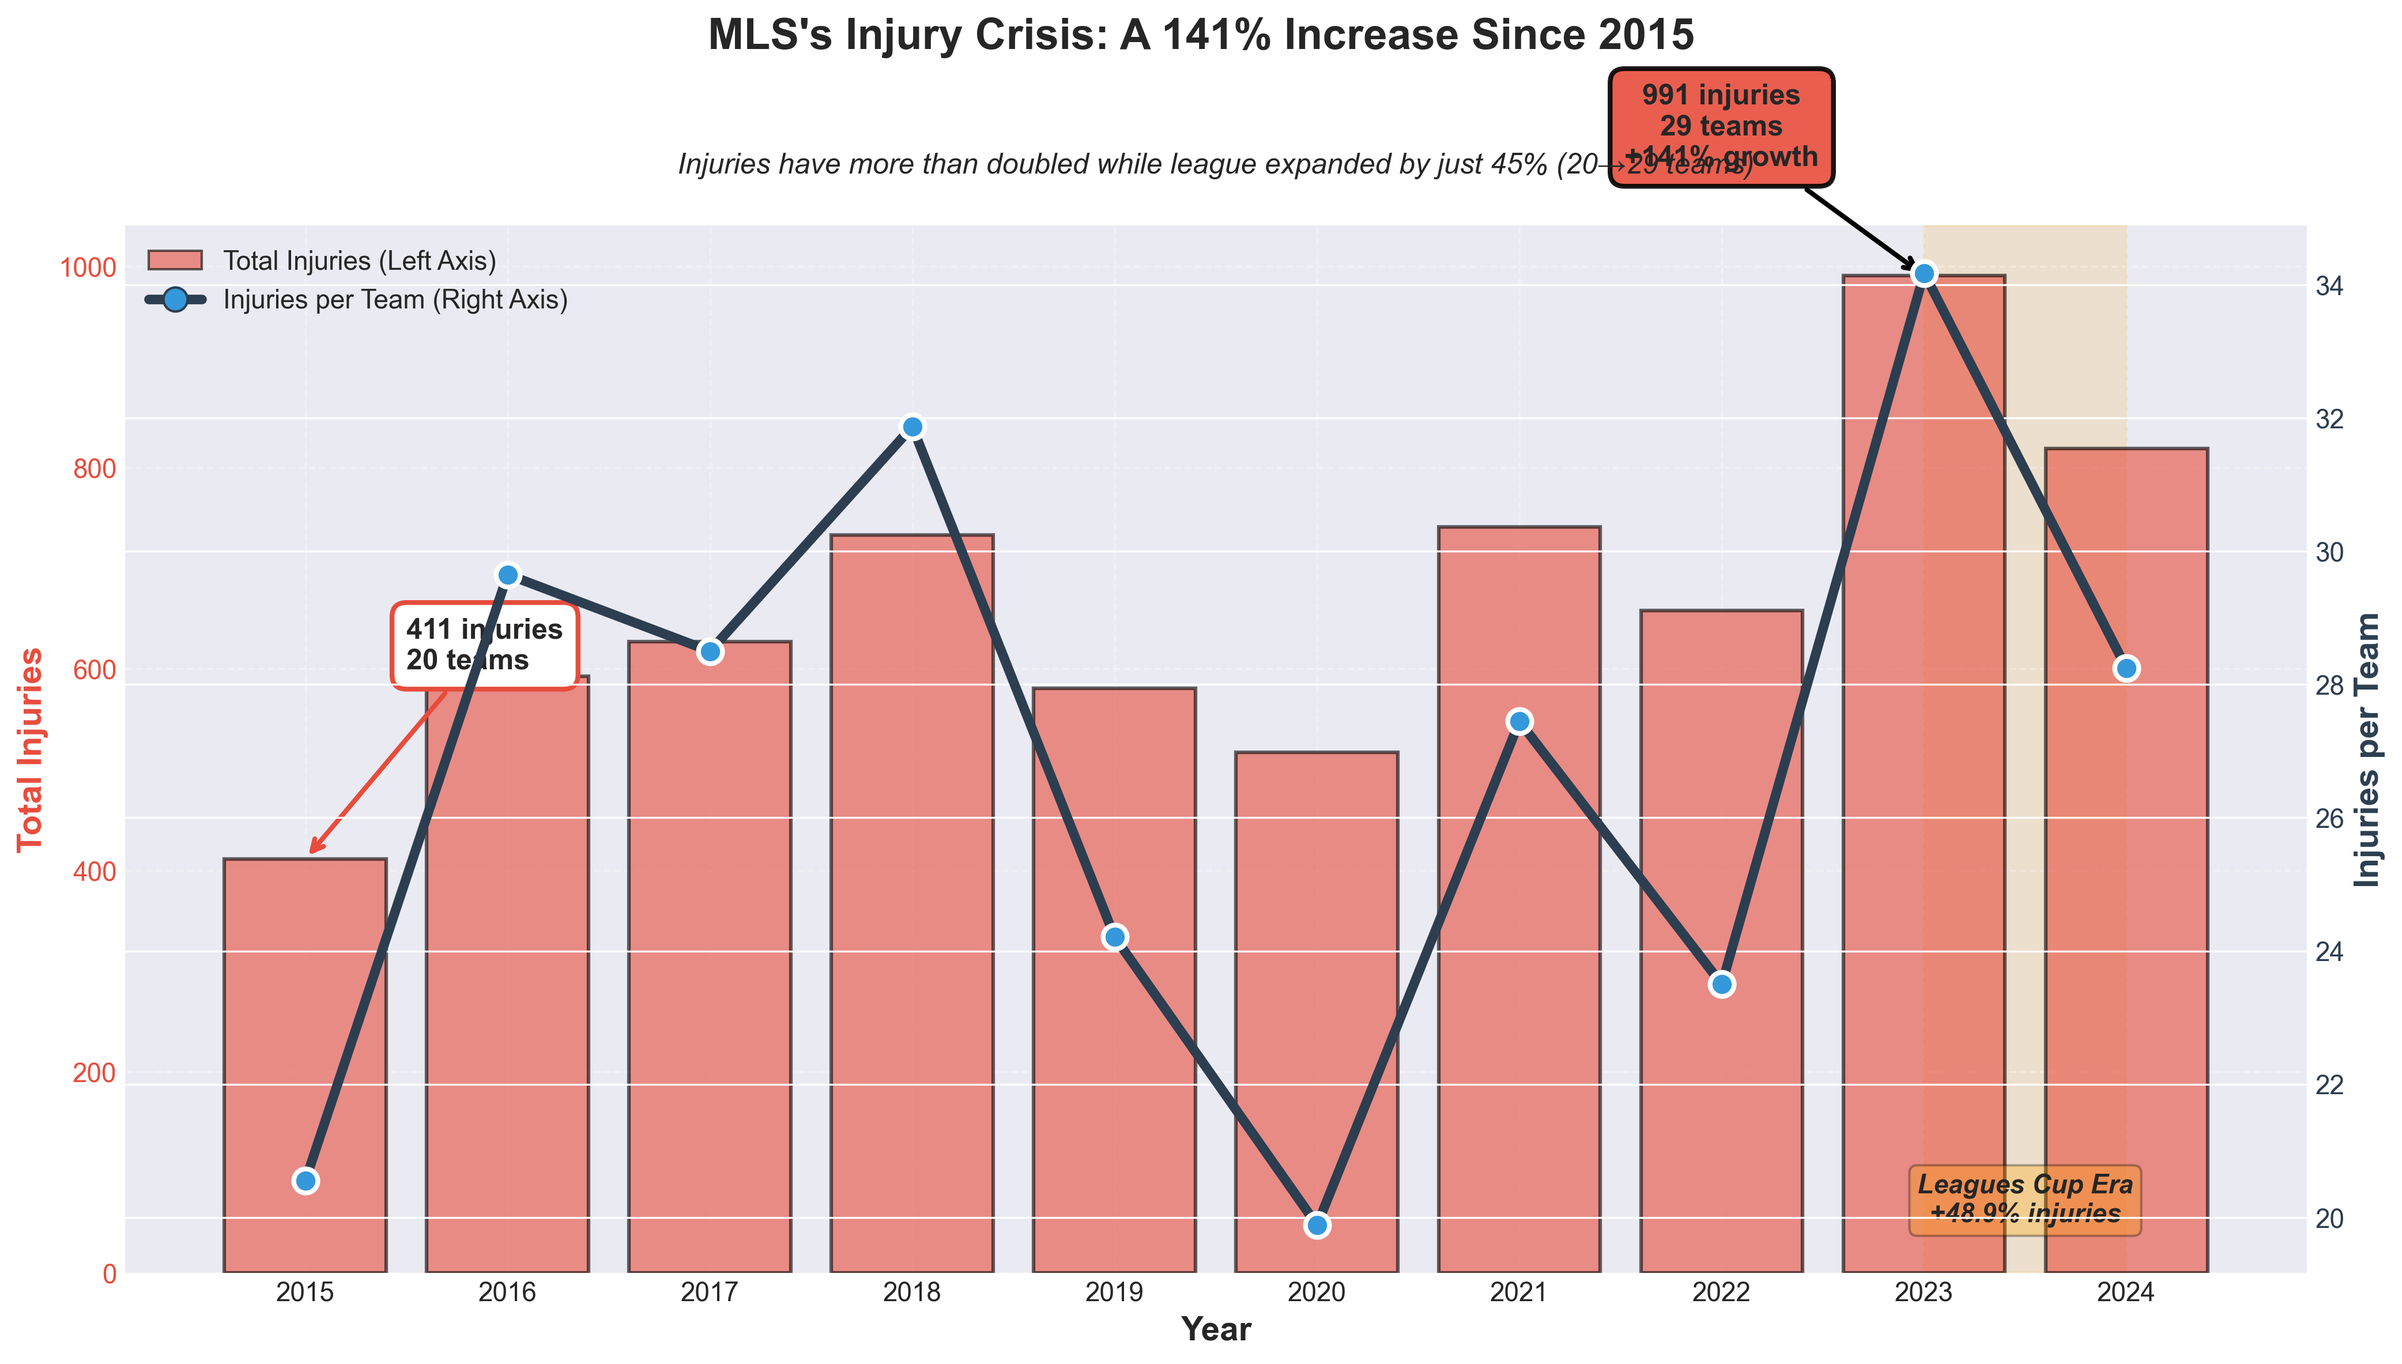
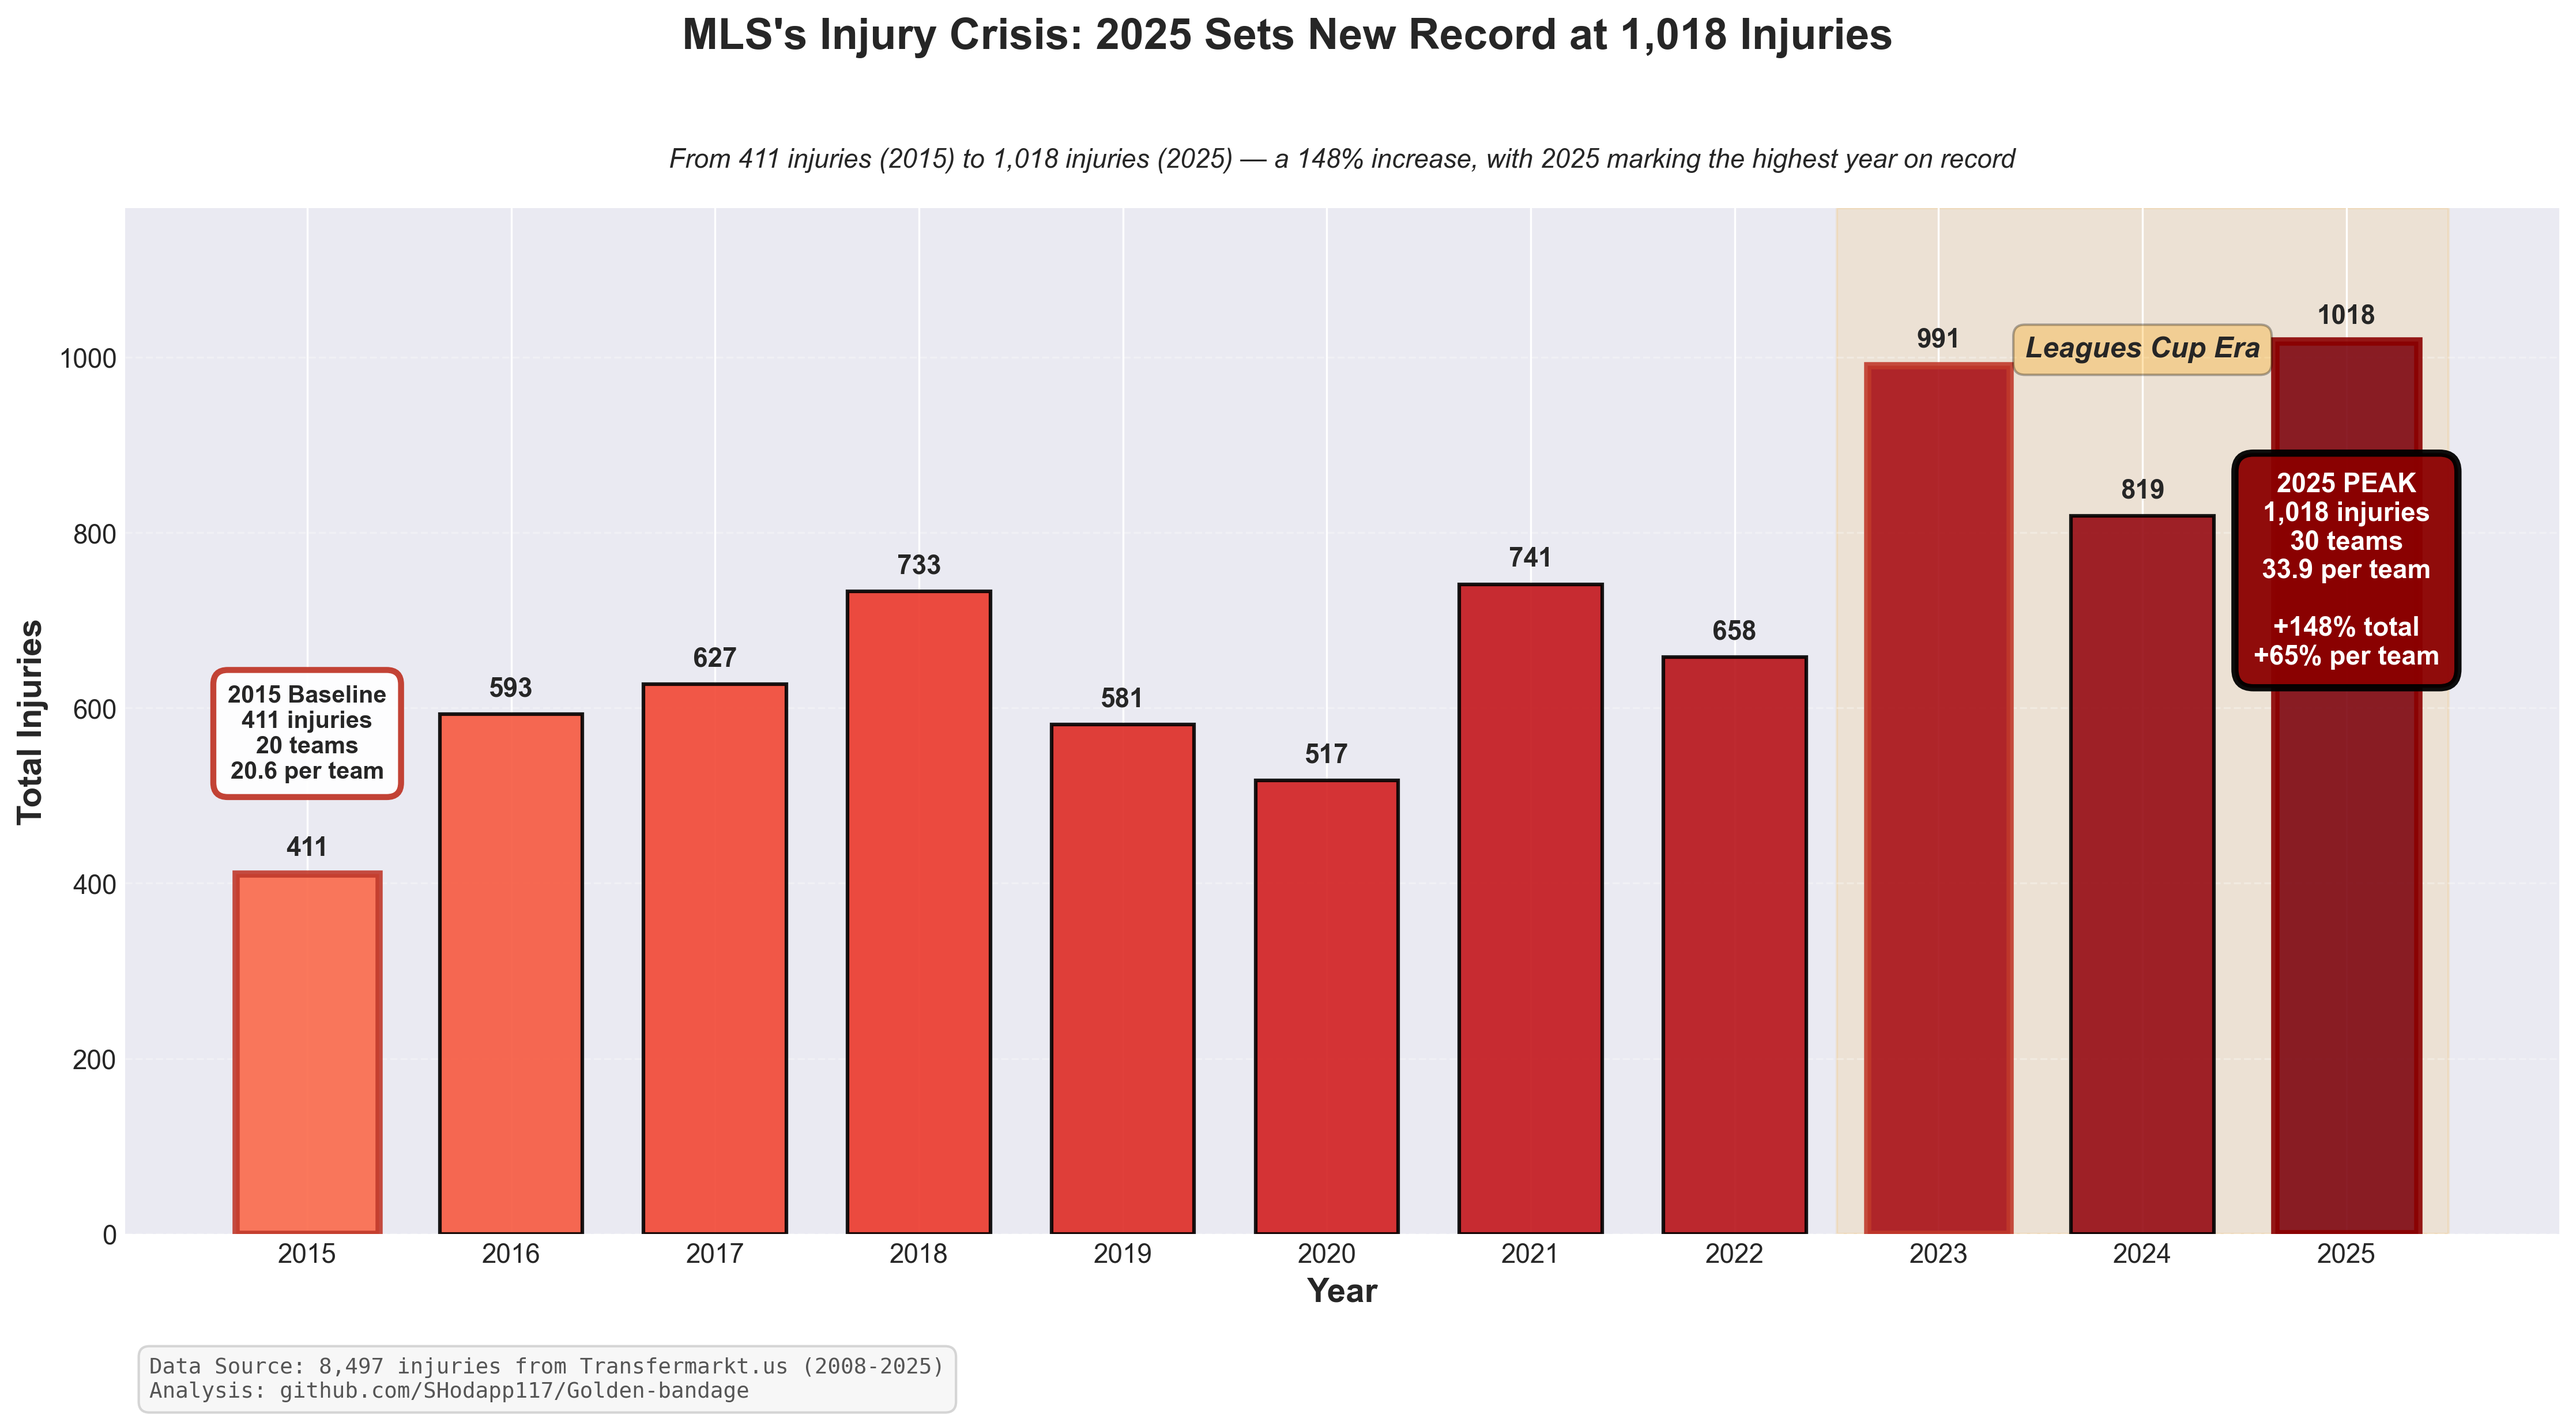
updating imgaes and article node

diff --git a/MLS_INJURY_SPIKE_ARTICLE.md b/MLS_INJURY_SPIKE_ARTICLE.md
@@ -6,9 +6,9 @@
 
 Major League Soccer has an injury problem—and it's getting worse.
 
-In 2015, MLS recorded 411 player injuries. By 2023, that number had ballooned to 991—a 141% increase that far outpaces the league's expansion from 20 to 29 teams. Even accounting for growth, injuries per team jumped from 20.6 to 34.2, a 40% increase that signals something beyond simple math.
+In 2015, MLS recorded 411 player injuries. By 2025, that number reached 1,018—a 148% increase that far outpaces the league's expansion from 20 to 30 teams. Even accounting for growth, injuries per team jumped from 20.6 to 33.9, a 65% increase that signals something beyond simple math. The problem isn't stabilizing—2025 marks the highest injury count in league history.
 
-I built a dataset of 8,497 injuries spanning 2008 to 2024 to understand what's driving this spike. The findings point to structural problems in how the league schedules games, how teams manage player recovery, and how playing surfaces interact with the compressed calendar—problems that manifest in predictable seasonal patterns and disproportionately affect soft-tissue injuries.
+I built a dataset of 8,497 injuries spanning 2008 to 2025 to understand what's driving this spike. The findings point to structural problems in how the league schedules games, how teams manage player recovery, and how playing surfaces interact with the compressed calendar—problems that manifest in predictable seasonal patterns and disproportionately affect soft-tissue injuries.
 
 ## The Seasonal Pattern
 
@@ -22,7 +22,7 @@ This pattern suggests that cumulative fatigue builds throughout the season, but 
 
 ## The Leagues Cup Effect
 
-The clearest inflection point in recent years is 2023, when the Leagues Cup expanded to include all MLS teams. From 2015 to 2022, MLS averaged 608 injuries per season. In 2023-2024, that average jumped to 905—a 48.9% increase.
+The clearest inflection point in recent years is 2023, when the Leagues Cup expanded to include all MLS teams. From 2015 to 2022, MLS averaged 608 injuries per season. In 2023-2025, that average jumped to 943—a 55% increase. The 2025 season alone recorded 1,018 injuries—the highest in league history.
 
 This isn't just about adding games. It's about when they're added. The Leagues Cup compresses into late July and August, creating a fixture pileup that leaves no room for rest. Teams that advance deep into the tournament can play three games in seven days, then immediately return to league play. The cumulative load is showing up in the injury data, with August injuries increasing from historical averages.
 
@@ -78,7 +78,7 @@ What's clear: when Seattle's muscle injuries occurred on FieldTurf, they average
 
 The numbers tell a simple story: MLS is asking players to do more with less recovery time.
 
-From 2015 to 2023, the league added nine teams, expanded from 34 to 34 regular-season games per team, and introduced the Leagues Cup as a mandatory mid-season tournament. Elite players now face 50+ competitive matches per year when accounting for playoffs, CONCACAF competitions, and international duty.
+From 2015 to 2025, the league added ten teams, maintained 34 regular-season games per team, and introduced the Leagues Cup as a mandatory mid-season tournament. Elite players now face 50+ competitive matches per year when accounting for playoffs, CONCACAF competitions, and international duty.
 
 European leagues manage similar fixture loads with 25-30 player rosters and winter breaks that provide 4-6 weeks of recovery. MLS rosters max out at 20-22 senior players under salary cap constraints, and the league's split-calendar season (February-November) leaves minimal off-season recovery before preseason begins in January.
 
@@ -86,7 +86,7 @@ The early-season injury spike (March-May accounting for 35.9% of annual injuries
 
 The Leagues Cup intensifies this problem. Introduced league-wide in 2023, the tournament compresses into late July and August, forcing teams to play 3-4 games in two weeks, then immediately return to league play. Teams advancing deep into the tournament can face Saturday-Tuesday-Saturday schedules with cross-country travel between matches.
 
-The data shows the impact: August injuries jumped from historical averages, and the 2023-2024 seasons saw a 48.9% increase in average annual injuries compared to 2015-2022. The injury spike coincides precisely with the Leagues Cup's expansion.
+The data shows the impact: August injuries jumped from historical averages, and the 2023-2025 seasons saw a 55% increase in average annual injuries compared to 2015-2022. The injury spike coincides precisely with the Leagues Cup's expansion, with 2025 setting a new record at 1,018 injuries.
 
 ## Geography as a Risk Factor
 
@@ -121,22 +121,22 @@ These aren't random occurrences. They're patterns—and patterns can be changed.
 
 ## Methodology
 
-**Data**: Analysis of 8,497 player injuries from Transfermarkt.us (2008-2024), including 2,828 injuries (33.3%) matched to specific stadiums and playing surfaces with climate data. Dataset validated against peer-reviewed MLS injury surveillance literature and available at github.com/SHodapp117/Golden-bandage.
+**Data**: Analysis of 8,497 player injuries from Transfermarkt.us (2008-2025), including 2,828 injuries (33.3%) matched to specific stadiums and playing surfaces with climate data. Dataset validated against peer-reviewed MLS injury surveillance literature and available at github.com/SHodapp117/Golden-bandage.
 
 **Analysis**: Compared injury rates across seasons, playing surfaces, timing patterns, and climate zones. Injury timing analyzed by day of week based on reported injury dates from Transfermarkt.us. Note: These dates represent when injuries were documented/reported, not necessarily when they occurred, meaning the day-of-week pattern captures injury discovery and reporting timing (acute match injuries typically reported same day; delayed-onset injuries surface 1-2 days later). Statistical testing included Welch's t-test for group differences. Seasonal patterns analyzed by month and competition phase.
 
 **Limitations**: Stadium surface data available for 33% of injuries. Cannot control for all confounding variables (player fitness, medical protocols, rehabilitation quality, training methodologies). Correlation analysis cannot prove causation. Day-of-week injury patterns infer match timing without definitive fixture linkage for all records. Climate zone assignments based on stadium location, not injury location. Seattle's training practices inferred from public reporting, not verified internal data. Transfermarkt.us data coverage may have improved over time, potentially affecting year-over-year comparisons (Seattle 2024-2025 spike may partly reflect better reporting).
 
 **Key Findings Verified**:
-- Injuries increased from 411 (2015) to 991 (2023): 141% growth
-- Injuries per team increased 40% (20.6 → 34.2) accounting for expansion
+- Injuries increased from 411 (2015) to 1,018 (2025): 148% growth
+- Injuries per team increased 65% (20.6 → 33.9) accounting for expansion
 - Early season (Mar-May) accounts for 35.9% of injuries; March is peak month (13.1%)
 - 73.4% of injuries occur within 48-hour match windows (Wed-Mon)
 - 42.7% occur day-after matches vs 30.7% during matches
 - FieldTurf muscle injuries: 74.6 days mean recovery vs 43.8 days on grass (not statistically significant, p=0.26)
 - Overall surface difference: 3.8 days (64.0 vs 60.2)
 - Continental climate FieldTurf: 104.6 days vs 52.8 days on grass
-- Leagues Cup era (2023-2024): 48.9% increase in average annual injuries
+- Leagues Cup era (2023-2025): 55% increase in average annual injuries; 2025 sets record at 1,018
 - Seattle Sounders (2015-2023): 1.7 injuries/season (15 total); (2024-2025): 24 injuries/season (48 total)
 - Seattle soft-tissue recovery on FieldTurf: 131.7 days vs 42.6 days league average
 
